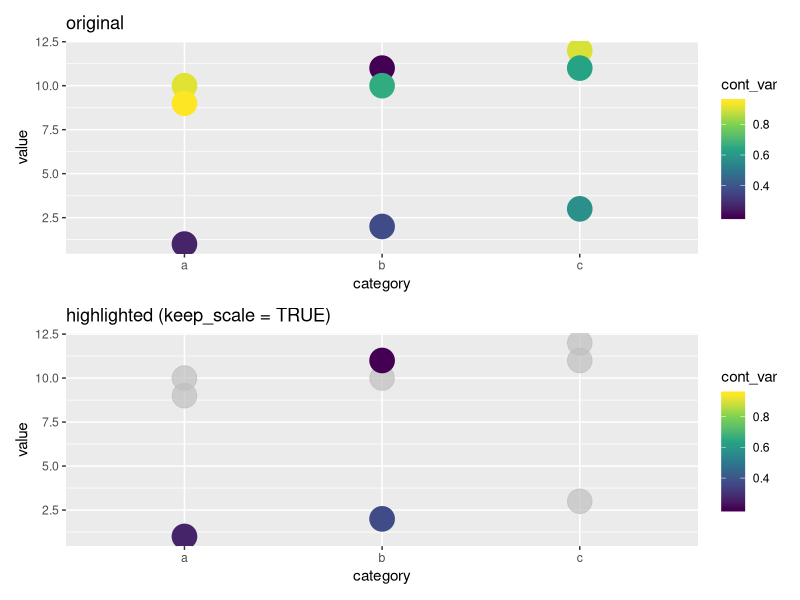
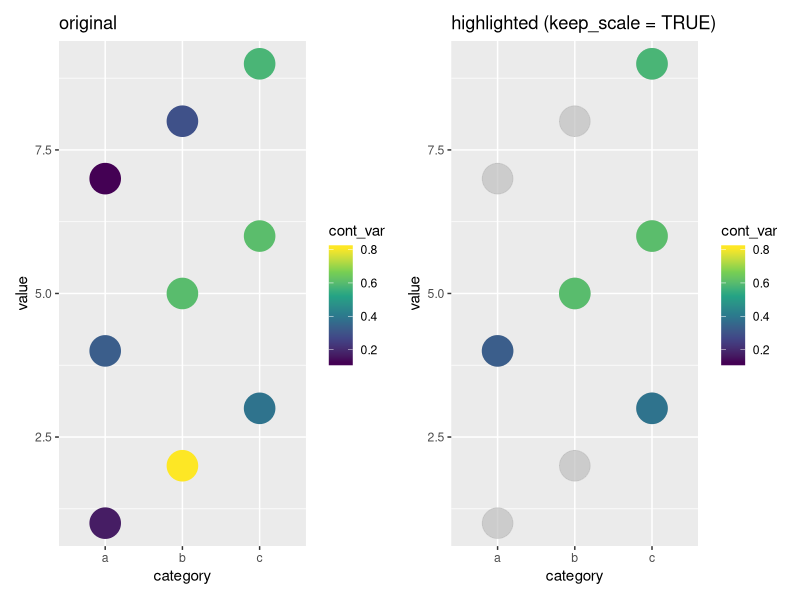
Finish the blog post

diff --git a/content/post/2020-02-17-gghighlight-0-2-0.md b/content/post/2020-02-17-gghighlight-0-2-0.md
@@ -12,14 +12,14 @@ tags:
 description: ''
 ---
 
-gghighlight 0.2.0 is on CRAN a while ago. Though most of the development effort of this 1.5 year is about internal improvements, let me introduce some new features.
+[gghighlight 0.2.0](https://yutannihilation.github.io/gghighlight/news/index.html#gghighlight-020) is on CRAN a while ago. This post briefly introduces the three new features. For basic usages, please refer to "[Introduction to gghighlight](https://yutannihilation.github.io/gghighlight/articles/gghighlight.html)".
 
 ## `keep_scales`
 
 To put it simply, gghighlight doesn't drop any data points but drops their colours.
 This means, while non-colour scales (e.g. `x`, `y` and `size`) are kept as they are,
-colour scales get shirinked. This might be inconvenient when we want to compare the
-original version and the highlighted version, or multiple highlighted versions.
+colour scales get shrinked. This might be inconvenient when we want to compare the
+original version and the highlighted version, or the multiple highlighted versions.
 
 
 
@@ -28,22 +28,22 @@ library(gghighlight)
 #> Loading required package: ggplot2
 library(patchwork)
 
-set.seed(1)
+set.seed(3)
 
 d <- data.frame(
-  value = c( 1, 2, 3,10,11,12, 9,10,11),
+  value = 1:9,
   category = rep(c("a","b","c"), 3),
   cont_var = runif(9),
   stringsAsFactors = FALSE
 )
 
 p <- ggplot(d, aes(x = category, y = value, color = cont_var)) +
-  geom_point(size = 8) +
+  geom_point(size = 10) +
   scale_colour_viridis_c()
 
 p1 <- p + ggtitle("original")
 p2 <- p + 
-  gghighlight(cont_var < 0.5,
+  gghighlight(dplyr::between(cont_var, 0.3, 0.7),
               use_direct_label = FALSE) +
   ggtitle("highlighted")
 #> Warning: Tried to calculate with group_by(), but the calculation failed.
@@ -62,17 +62,81 @@ hood, gghighlight simply copies the original data to `geom_blank()`).
 
 ```r
 p3 <- p +
-  gghighlight(cont_var < 0.5,
+  gghighlight(dplyr::between(cont_var, 0.3, 0.7),
               keep_scales = TRUE,
               use_direct_label = FALSE) +
   ggtitle("highlighted (keep_scale = TRUE)")
 #> Warning: Tried to calculate with group_by(), but the calculation failed.
 #> Falling back to ungrouped filter operation...
 
-p1 / p3
+p1 * p3
 ```
 
 ![plot of chunk keep_scale2](/post/2020-02-17-gghighlight-0-2-0_files/figure-html/keep_scale2-1.png)
+
+## `calculate_per_facet`
+
+When used with `facet_*()`, `gghighlight()` puts unhighlighted data on all facets and calculate the predicates on the whole data.
+
+
+```r
+Sys.setlocale(locale = "C")
+#> [1] "LC_CTYPE=C;LC_NUMERIC=C;LC_TIME=C;LC_COLLATE=C;LC_MONETARY=C;LC_MESSAGES=ja_JP.UTF-8;LC_PAPER=ja_JP.UTF-8;LC_NAME=C;LC_ADDRESS=C;LC_TELEPHONE=C;LC_MEASUREMENT=ja_JP.UTF-8;LC_IDENTIFICATION=C"
+set.seed(16)
+
+d <- tibble::tibble(
+  day = rep(as.Date("2020-01-01") + 0:89, times = 4),
+  month = lubridate::ceiling_date(day, "month"),
+  value = c(
+    cumsum(runif(90, -1.0, 1.0)),
+    cumsum(runif(90, -1.1, 1.1)),
+    cumsum(runif(90, -1.1, 1.0)),
+    cumsum(runif(90, -1.0, 1.1))
+  ),
+  id = rep(c("a", "b", "c", "d"), each = 90)
+)
+
+p <- ggplot(d) +
+  geom_line(aes(day, value, colour = id)) +
+  facet_wrap(~ month, scales = "free_x")
+
+p + 
+  gghighlight(mean(value) > 0, keep_scales = TRUE)
+#> label_key: id
+```
+
+![plot of chunk calculate_per_facet1](/post/2020-02-17-gghighlight-0-2-0_files/figure-html/calculate_per_facet1-1.png)
+
+But, it sometimes feels better to highlight facet by facet.
+For such a need, `gghighlight()` now has a new argument `calculate_per_facet`.
+
+
+```r
+p + 
+  gghighlight(mean(value) > 0,
+              calculate_per_facet = TRUE,
+              keep_scales = TRUE)
+#> label_key: id
+```
+
+![plot of chunk calculate_per_facet2](/post/2020-02-17-gghighlight-0-2-0_files/figure-html/calculate_per_facet2-1.png)
+
+Note that, as a general rule, only the layers **before** adding `gghighlight()` are modified.
+So, if you add facet_*() after adding gghighlight(), this option doesn’t work (though this
+behaviour might also be useful in some cases).
+
+
+```r
+ggplot(d) +
+  geom_line(aes(day, value, colour = id)) +
+  gghighlight(mean(value) > 0,
+              calculate_per_facet = TRUE,
+              keep_scales = TRUE) +
+  facet_wrap(~ month, scales = "free_x")
+#> label_key: id
+```
+
+![plot of chunk calculate_per_facet3](/post/2020-02-17-gghighlight-0-2-0_files/figure-html/calculate_per_facet3-1.png)
 
 ## `unhighlighted_params`
 
@@ -120,7 +184,7 @@ p +
 ![plot of chunk unhighlighted_params1](/post/2020-02-17-gghighlight-0-2-0_files/figure-html/unhighlighted_params1-1.png)
 
 You should notice that these vertical lines still have their colours.
-To grey them out, we can specify `point_colour = "grey80"`^[Be careful, `point_color` doesn't work...] on `unhighlighted_params`.
+To grey them out, we can specify `point_colour = "grey80"` on `unhighlighted_params` (Be careful, `point_color` doesn't work...).
 
 
 ```r
@@ -131,5 +195,31 @@ p +
 #> Picking joint bandwidth of 2.23
 ```
 
-![plot of chunk unghighlighted_params2](/post/2020-02-17-gghighlight-0-2-0_files/figure-html/unghighlighted_params2-1.png)
+![plot of chunk unhighlighted_params2](/post/2020-02-17-gghighlight-0-2-0_files/figure-html/unhighlighted_params2-1.png)
+
+`unhighlighted_params` is also useful when you want more significant difference between the highlighted data and unhighligted ones. In the following example, `size` and `colour` are set differently.
+
+
+
+```r
+set.seed(2)
+d <- purrr::map_dfr(
+  letters,
+  ~ data.frame(
+      idx = 1:400,
+      value = cumsum(runif(400, -1, 1)),
+      type = .,
+      flag = sample(c(TRUE, FALSE), size = 400, replace = TRUE),
+      stringsAsFactors = FALSE
+    )
+)
+
+ggplot(d) +
+  geom_line(aes(idx, value, colour = type), size = 5) +
+  gghighlight(max(value) > 19,
+              unhighlighted_params = list(size = 1, colour = alpha("pink", 0.4)))
+#> label_key: type
+```
+
+![plot of chunk unhighlighted_params3](/post/2020-02-17-gghighlight-0-2-0_files/figure-html/unhighlighted_params3-1.png)
 
